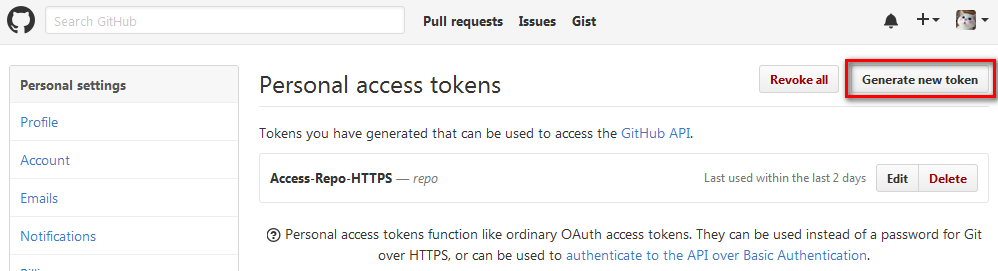
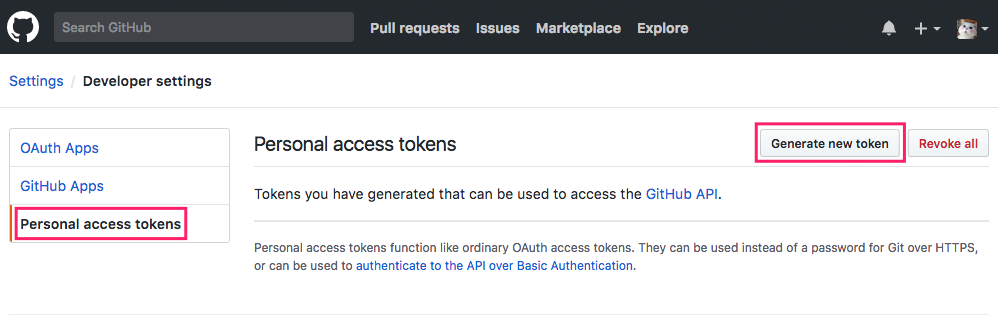
upgrade screenshots

diff --git a/README.md b/README.md
@@ -92,7 +92,11 @@ In addition, if the `"http.proxy"` property in `VSCode User Settings` is not set
 
         ![login to settings page](docs/png/Settings.png)
 
-    1. **From the list on the left, select `Personal access tokens` and click `Generate new token`.**
+    1. **Select `Developer settings`.**
+
+        ![generate new token](docs/png/Public-Profile.png)
+
+    1. **Select `Personal access tokens` and click `Generate new token`.**
 
         ![generate new token](docs/png/Generate-New-Token.png)
 
